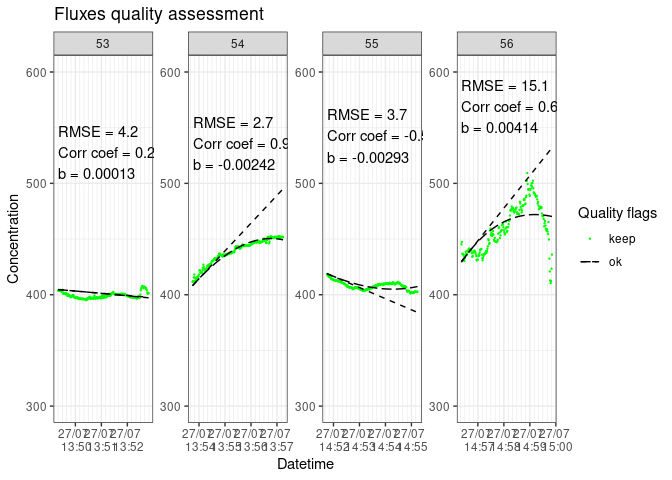
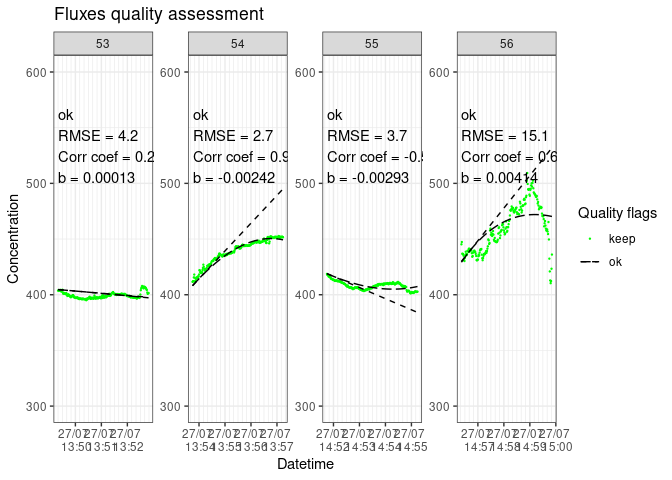
plots and small fixes

diff --git a/README.md b/README.md
@@ -3,8 +3,8 @@
 
 # Fluxible
 
-*Note:* fluxible is still in an early testing phase, please get in touch
-for any problems or suggestions.
+**Note:** fluxible is still in an early testing phase, please get in
+touch for any problems or suggestions.
 
 <!-- badges: start -->
 <!-- badges: end -->
@@ -120,7 +120,8 @@ slopes_lin_liahovden |>
       f_plotname = "example_lia",
       f_ylim_lower = 300,
       f_ylim_upper = 600,
-      f_nrow = 1
+      f_nrow = 1,
+      y_text_position = 400
       )
 #> [1] "Saving plots in f_quality_plots folder."
 ```
@@ -144,7 +145,8 @@ slopes_lin_liahovden_120 |>
       f_plotname = "example_lia_lin",
       f_ylim_lower = 300,
       f_ylim_upper = 600,
-      f_nrow = 1
+      f_nrow = 1,
+      y_text_position = 400
       )
 #> [1] "Saving plots in f_quality_plots folder."
 ```
@@ -212,7 +214,8 @@ slopes_exp_liahovden |>
       f_plotname = "example_lia_lin",
       f_ylim_lower = 300,
       f_ylim_upper = 600,
-      f_nrow = 1
+      f_nrow = 1,
+      y_text_position = 400
       )
 #> [1] "Saving plots in f_quality_plots folder."
 ```
@@ -237,7 +240,8 @@ slopes_exp_liahovden_30 |>
       f_plotname = "example_lia_lin",
       f_ylim_lower = 300,
       f_ylim_upper = 600,
-      f_nrow = 1
+      f_nrow = 1,
+      y_text_position = 400
       )
 #> [1] "Saving plots in f_quality_plots folder."
 ```
@@ -277,6 +281,8 @@ different fitting function is needed to account for potential leaks.
 As we want fluxible to fit the use of as many projects as possible, more
 fitting expressions will be included in the flux_fitting function. Feel
 welcome to get in touch if you wish to include yours in fluxible.
+
+#### References
 
 <div id="refs" class="references csl-bib-body hanging-indent"
 entry-spacing="0" line-spacing="2">
